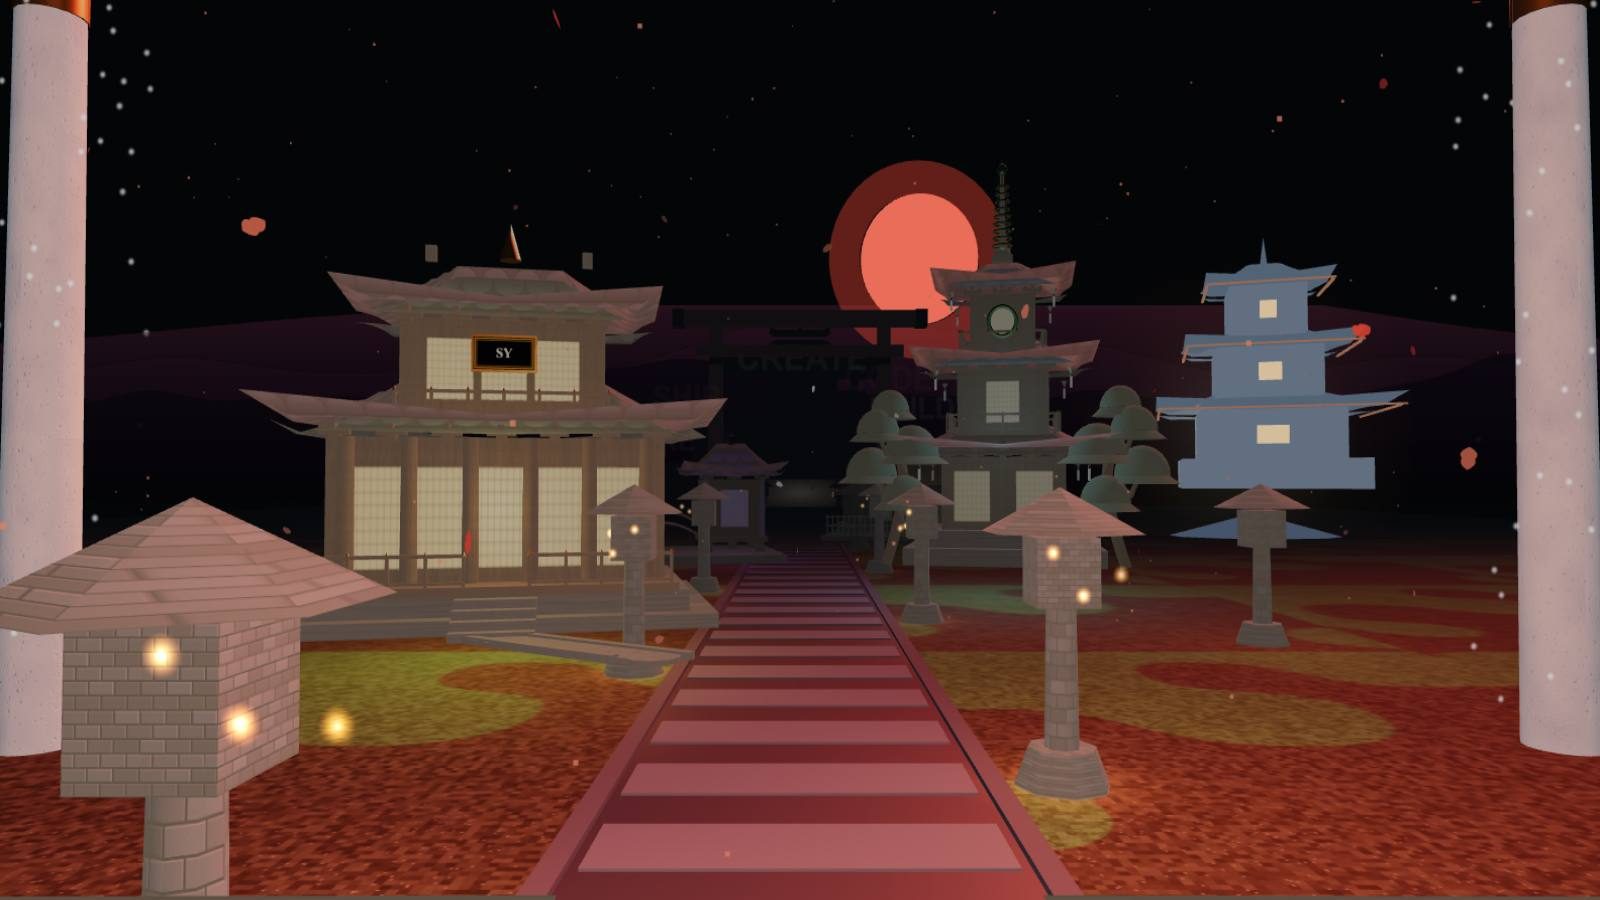
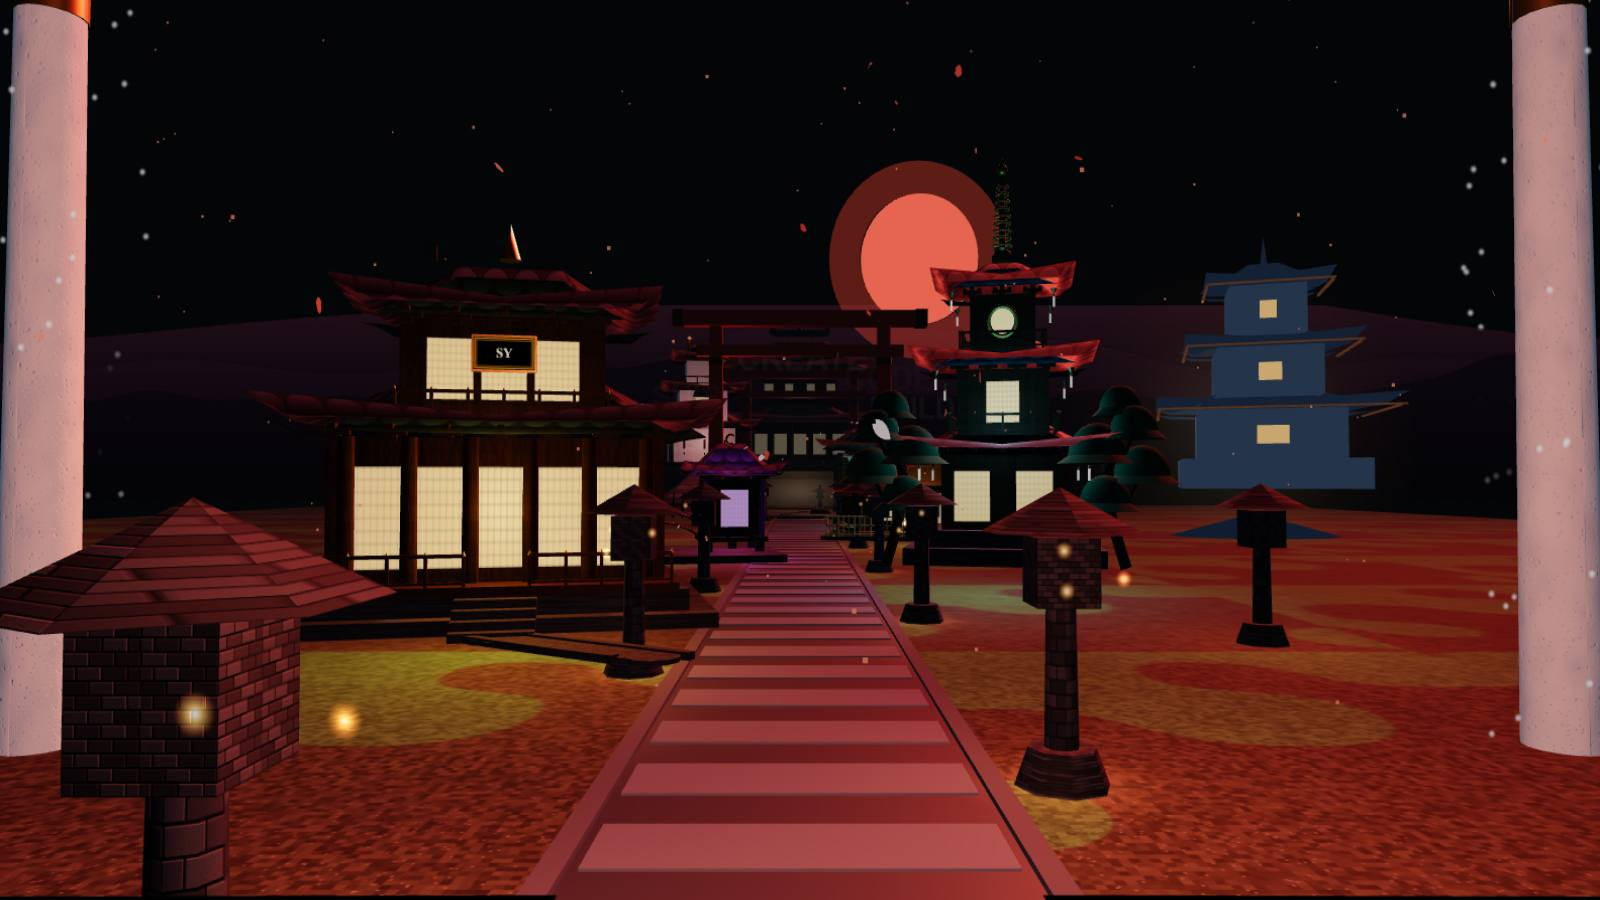
design: fix washed-out houses - restore real textures, light them properly
The "white cloth" came from an emissive floor applied to every house mesh plus
brightened base colours: it erased the procedural wood/roof/stone maps and
flattened all shading. Removed it.

- restored original dark textured materials (wood 0x241a16, tile 0x222b32,
  stone 0x2b3037, hinoki 0x7d5537) so grain and detail read again
- far buildings pushed back to dark but not pure black, so their silhouettes
  have form without washing into the scene
- shoji emissive back to 0.85, lantern intensity x1.25, ambient 0x1a202b @1.95,
  exposure 1.2 - the houses are lit by actual warm point pools instead
- light pool widened 14 -> 20 of 26 sources so lanterns along the whole avenue
  are live (count is still constant, no shader relinks)
- fog stays low (0.007) and all six houses stay visible (cull range 130) so the
  full temple avenue reads at the entrance
- work-stage copy keeps its scrim so the text remains legible
- entrance poster regenerated

Verified: 15/15 interaction checks, mobile guide + swipe, 0 console errors,
0 CJK. Pushed to SUBADEEPAN-Y only.

diff --git a/index.html b/index.html
@@ -3789,7 +3789,7 @@ body.blood-moon-active #filmGrain {
   renderer.setSize(window.innerWidth, window.innerHeight);
   renderer.setPixelRatio(Math.min(window.devicePixelRatio || 1, window.innerWidth < 900 ? 1.1 : 1.25));
   renderer.toneMapping = THREE.ACESFilmicToneMapping;
-  renderer.toneMappingExposure = 1.3;
+  renderer.toneMappingExposure = 1.2;
   window.renderer = renderer;
   window.__glRenderer = renderer;
 
@@ -3829,13 +3829,13 @@ body.blood-moon-active #filmGrain {
 
   const scene = new THREE.Scene();
   scene.background = new THREE.Color(0x040507);
-  scene.fog = new THREE.FogExp2(0x06080c, 0.022);
+  scene.fog = new THREE.FogExp2(0x06080c, 0.007);
   window.scene = scene;
 
   const camera = new THREE.PerspectiveCamera(46, window.innerWidth / window.innerHeight, 0.1, 280);
 
   // --- 3. ATMOSPHERIC LIGHTING WITH DYNAMIC CHROMATIC HARMONY ---
-  const ambientLight = new THREE.AmbientLight(0x2b3038, 2.4);
+  const ambientLight = new THREE.AmbientLight(0x1a202b, 1.95);
   scene.add(ambientLight);
   scene.add(camera);
 
@@ -4032,16 +4032,16 @@ body.blood-moon-active #filmGrain {
 
   // Stage-Specific Atmospheric Fog Density Curve (Mountain Temple Depth Dynamics)
   const STAGE_FOG_DENSITIES = [
-    0.022, // Stage 0 (The Hidden Gate): distant Sanmon palace softly veiled in mountain fog
-    0.020, // Stage 1 (The Maker): gently thinning atmospheric mist
-    0.016, // Stage 2 (iGradeify): cleared mist for razor-sharp artifact details
-    0.016, // Stage 3 (manim-ts): cleared mist for razor-sharp artifact details
-    0.016, // Stage 4 (Duel Deck): cleared mist for razor-sharp artifact details
-    0.016, // Stage 5 (Desktop Buddy): cleared mist for razor-sharp artifact details
-    0.016, // Stage 6 (Greate Engine): cleared mist for razor-sharp artifact details
-    0.016, // Stage 7 (Personal Cloud): cleared mist for razor-sharp artifact details
-    0.024, // Stage 8 (The Ritual): deeper temple precinct fog
-    0.011  // Stage 9 (Inner Sanctum): clear interior air
+    0.007, // Stage 0 (The Hidden Gate): distant Sanmon palace softly veiled in mountain fog
+    0.007, // Stage 1 (The Maker): gently thinning atmospheric mist
+    0.006, // Stage 2 (iGradeify): cleared mist for razor-sharp artifact details
+    0.006, // Stage 3 (manim-ts): cleared mist for razor-sharp artifact details
+    0.006, // Stage 4 (Duel Deck): cleared mist for razor-sharp artifact details
+    0.006, // Stage 5 (Desktop Buddy): cleared mist for razor-sharp artifact details
+    0.006, // Stage 6 (Greate Engine): cleared mist for razor-sharp artifact details
+    0.006, // Stage 7 (Personal Cloud): cleared mist for razor-sharp artifact details
+    0.008, // Stage 8 (The Ritual): deeper temple precinct fog
+    0.005  // Stage 9 (Inner Sanctum): clear interior air
   ];
   window.STAGE_FOG_DENSITIES = STAGE_FOG_DENSITIES;
 
@@ -4315,7 +4315,7 @@ body.blood-moon-active #filmGrain {
   const paperMat = new THREE.MeshStandardMaterial({
     color: 0xffaa48,
     emissive: 0xffaa48,
-    emissiveIntensity: 1.5,
+    emissiveIntensity: 0.85,
     roughness: 0.9,
     metalness: 0.0
   });
@@ -5445,10 +5445,10 @@ body.blood-moon-active #filmGrain {
   // Distant hillside pagoda silhouette filling the right-hand horizon at the hero
   function createDistantPagoda() {
     const g = new THREE.Group();
-    const bodyMat = new THREE.MeshBasicMaterial({ color: 0x3b4657, fog: false });
-    const roofMat = new THREE.MeshBasicMaterial({ color: 0x323d4d, fog: false });
-    const eaveMat = new THREE.MeshBasicMaterial({ color: 0x6b4030, fog: false });
-    const glowMat = new THREE.MeshBasicMaterial({ color: 0xffb066, fog: false });
+    const bodyMat = new THREE.MeshBasicMaterial({ color: 0x1b2533, fog: false });
+    const roofMat = new THREE.MeshBasicMaterial({ color: 0x121a26, fog: false });
+    const eaveMat = new THREE.MeshBasicMaterial({ color: 0x3a2216, fog: false });
+    const glowMat = new THREE.MeshBasicMaterial({ color: 0xe08a42, fog: false });
 
     const plinth = new THREE.Mesh(new THREE.BoxGeometry(5.6, 0.9, 5.6), bodyMat);
     plinth.position.y = 0.45;
@@ -5492,7 +5492,7 @@ body.blood-moon-active #filmGrain {
   // Dark hillside mound so the distant pagoda is seated on the ridge line
   const pagodaHill = new THREE.Mesh(
     new THREE.ConeGeometry(15, 7.5, 10),
-    new THREE.MeshBasicMaterial({ color: 0x2a3444, fog: false })
+    new THREE.MeshBasicMaterial({ color: 0x101824, fog: false })
   );
   pagodaHill.position.set(36, -1.4, -62);
   pagodaHill.scale.set(1.6, 0.8, 1);
@@ -6606,12 +6606,12 @@ body.blood-moon-active #filmGrain {
 
     house.traverse(obj => {
       if (obj.isPointLight) {
-        obj.userData.baseIntensity = obj.intensity * 1.5;
+        obj.userData.baseIntensity = obj.intensity * 1.25;
         lanternLights.push(obj);
       }
       if (obj.isMesh && obj.userData && obj.userData.isShoji) {
         if (obj.material && typeof obj.material.emissiveIntensity !== 'undefined') {
-          obj.userData.baseEmissive = obj.userData.baseEmissive || obj.material.emissiveIntensity || 1.5;
+          obj.userData.baseEmissive = obj.userData.baseEmissive || obj.material.emissiveIntensity || 0.85;
           shojiMeshes.push(obj);
         }
       }
@@ -6619,17 +6619,6 @@ body.blood-moon-active #filmGrain {
 
     house.userData.shojiMeshes = shojiMeshes;
     house.userData.lanternLights = lanternLights;
-  });
-  // Every house mesh gets a low emissive floor so its own detail stays legible
-  // even where the pooled point lights cannot reach.
-  PROJECT_HOUSES.forEach(function (h) {
-    h.traverse(function (o) {
-      if (!o.isMesh || !o.material || !o.material.isMeshStandardMaterial) return;
-      if (o.material.emissive && o.material.emissive.getHex() === 0) {
-        o.material.emissive.setHex(0x3a3026);
-        o.material.emissiveIntensity = Math.max(o.material.emissiveIntensity || 0, 0.14);
-      }
-    });
   });
   window.PROJECT_HOUSES = PROJECT_HOUSES;
   window.HOUSES_GROUP = HOUSES_GROUP;
@@ -8592,7 +8581,7 @@ body.blood-moon-active #filmGrain {
     }
 
     // Dynamic Atmospheric Fog Density Modulation (Mountain Temple Depth Dynamics)
-    const targetFogDensity = typeof STAGE_FOG_DENSITIES !== 'undefined' && STAGE_FOG_DENSITIES[primaryStage] !== undefined ? STAGE_FOG_DENSITIES[primaryStage] : 0.022;
+    const targetFogDensity = typeof STAGE_FOG_DENSITIES !== 'undefined' && STAGE_FOG_DENSITIES[primaryStage] !== undefined ? STAGE_FOG_DENSITIES[primaryStage] : 0.007;
     if (scene && scene.fog) {
       scene.fog.density += (targetFogDensity - scene.fog.density) * 0.05;
     }
@@ -8699,10 +8688,10 @@ body.blood-moon-active #filmGrain {
       visibleHouses = [];
       for (let i = 0; i < PROJECT_HOUSES.length; i++) {
         const h = PROJECT_HOUSES[i];
-        h.visible = Math.abs(h.position.z - camZ) < 66;
+        h.visible = Math.abs(h.position.z - camZ) < 130;
         if (h.visible) visibleHouses.push(h);
       }
-      if (SANCTUM.group) SANCTUM.group.visible = camZ < -66;
+      if (SANCTUM.group) SANCTUM.group.visible = camZ < -96;
       const shellHidden = camZ < -108;
       if (window.__shellHidden !== shellHidden) {
         window.__shellHidden = shellHidden;
@@ -9454,7 +9443,7 @@ body.blood-moon-active #filmGrain {
   // the rest are demoted to plain data holders and a small pool of real lights
   // follows the camera. The light COUNT never changes, so no shader ever has
   // to be relinked mid-journey.
-  const LIGHT_POOL_SIZE = 14;
+  const LIGHT_POOL_SIZE = 20;
   const lightPool = [];
   const lightSources = [];
   LIGHT_KEEPER.children.slice().forEach(function (l) {

diff --git a/build_kage_editorial.js b/build_kage_editorial.js
@@ -3637,7 +3637,7 @@ ${modalHtml}
   renderer.setSize(window.innerWidth, window.innerHeight);
   renderer.setPixelRatio(Math.min(window.devicePixelRatio || 1, window.innerWidth < 900 ? 1.1 : 1.25));
   renderer.toneMapping = THREE.ACESFilmicToneMapping;
-  renderer.toneMappingExposure = 1.3;
+  renderer.toneMappingExposure = 1.2;
   window.renderer = renderer;
   window.__glRenderer = renderer;
 
@@ -3677,13 +3677,13 @@ ${modalHtml}
 
   const scene = new THREE.Scene();
   scene.background = new THREE.Color(0x040507);
-  scene.fog = new THREE.FogExp2(0x06080c, 0.022);
+  scene.fog = new THREE.FogExp2(0x06080c, 0.007);
   window.scene = scene;
 
   const camera = new THREE.PerspectiveCamera(46, window.innerWidth / window.innerHeight, 0.1, 280);
 
   // --- 3. ATMOSPHERIC LIGHTING WITH DYNAMIC CHROMATIC HARMONY ---
-  const ambientLight = new THREE.AmbientLight(0x2b3038, 2.4);
+  const ambientLight = new THREE.AmbientLight(0x1a202b, 1.95);
   scene.add(ambientLight);
   scene.add(camera);
 
@@ -3880,16 +3880,16 @@ ${modalHtml}
 
   // Stage-Specific Atmospheric Fog Density Curve (Mountain Temple Depth Dynamics)
   const STAGE_FOG_DENSITIES = [
-    0.022, // Stage 0 (The Hidden Gate): distant Sanmon palace softly veiled in mountain fog
-    0.020, // Stage 1 (The Maker): gently thinning atmospheric mist
-    0.016, // Stage 2 (iGradeify): cleared mist for razor-sharp artifact details
-    0.016, // Stage 3 (manim-ts): cleared mist for razor-sharp artifact details
-    0.016, // Stage 4 (Duel Deck): cleared mist for razor-sharp artifact details
-    0.016, // Stage 5 (Desktop Buddy): cleared mist for razor-sharp artifact details
-    0.016, // Stage 6 (Greate Engine): cleared mist for razor-sharp artifact details
-    0.016, // Stage 7 (Personal Cloud): cleared mist for razor-sharp artifact details
-    0.024, // Stage 8 (The Ritual): deeper temple precinct fog
-    0.011  // Stage 9 (Inner Sanctum): clear interior air
+    0.007, // Stage 0 (The Hidden Gate): distant Sanmon palace softly veiled in mountain fog
+    0.007, // Stage 1 (The Maker): gently thinning atmospheric mist
+    0.006, // Stage 2 (iGradeify): cleared mist for razor-sharp artifact details
+    0.006, // Stage 3 (manim-ts): cleared mist for razor-sharp artifact details
+    0.006, // Stage 4 (Duel Deck): cleared mist for razor-sharp artifact details
+    0.006, // Stage 5 (Desktop Buddy): cleared mist for razor-sharp artifact details
+    0.006, // Stage 6 (Greate Engine): cleared mist for razor-sharp artifact details
+    0.006, // Stage 7 (Personal Cloud): cleared mist for razor-sharp artifact details
+    0.008, // Stage 8 (The Ritual): deeper temple precinct fog
+    0.005  // Stage 9 (Inner Sanctum): clear interior air
   ];
   window.STAGE_FOG_DENSITIES = STAGE_FOG_DENSITIES;
 
@@ -4163,7 +4163,7 @@ ${modalHtml}
   const paperMat = new THREE.MeshStandardMaterial({
     color: 0xffaa48,
     emissive: 0xffaa48,
-    emissiveIntensity: 1.5,
+    emissiveIntensity: 0.85,
     roughness: 0.9,
     metalness: 0.0
   });
@@ -5293,10 +5293,10 @@ ${modalHtml}
   // Distant hillside pagoda silhouette filling the right-hand horizon at the hero
   function createDistantPagoda() {
     const g = new THREE.Group();
-    const bodyMat = new THREE.MeshBasicMaterial({ color: 0x3b4657, fog: false });
-    const roofMat = new THREE.MeshBasicMaterial({ color: 0x323d4d, fog: false });
-    const eaveMat = new THREE.MeshBasicMaterial({ color: 0x6b4030, fog: false });
-    const glowMat = new THREE.MeshBasicMaterial({ color: 0xffb066, fog: false });
+    const bodyMat = new THREE.MeshBasicMaterial({ color: 0x1b2533, fog: false });
+    const roofMat = new THREE.MeshBasicMaterial({ color: 0x121a26, fog: false });
+    const eaveMat = new THREE.MeshBasicMaterial({ color: 0x3a2216, fog: false });
+    const glowMat = new THREE.MeshBasicMaterial({ color: 0xe08a42, fog: false });
 
     const plinth = new THREE.Mesh(new THREE.BoxGeometry(5.6, 0.9, 5.6), bodyMat);
     plinth.position.y = 0.45;
@@ -5340,7 +5340,7 @@ ${modalHtml}
   // Dark hillside mound so the distant pagoda is seated on the ridge line
   const pagodaHill = new THREE.Mesh(
     new THREE.ConeGeometry(15, 7.5, 10),
-    new THREE.MeshBasicMaterial({ color: 0x2a3444, fog: false })
+    new THREE.MeshBasicMaterial({ color: 0x101824, fog: false })
   );
   pagodaHill.position.set(36, -1.4, -62);
   pagodaHill.scale.set(1.6, 0.8, 1);
@@ -6454,12 +6454,12 @@ ${modalHtml}
 
     house.traverse(obj => {
       if (obj.isPointLight) {
-        obj.userData.baseIntensity = obj.intensity * 1.5;
+        obj.userData.baseIntensity = obj.intensity * 1.25;
         lanternLights.push(obj);
       }
       if (obj.isMesh && obj.userData && obj.userData.isShoji) {
         if (obj.material && typeof obj.material.emissiveIntensity !== 'undefined') {
-          obj.userData.baseEmissive = obj.userData.baseEmissive || obj.material.emissiveIntensity || 1.5;
+          obj.userData.baseEmissive = obj.userData.baseEmissive || obj.material.emissiveIntensity || 0.85;
           shojiMeshes.push(obj);
         }
       }
@@ -6467,17 +6467,6 @@ ${modalHtml}
 
     house.userData.shojiMeshes = shojiMeshes;
     house.userData.lanternLights = lanternLights;
-  });
-  // Every house mesh gets a low emissive floor so its own detail stays legible
-  // even where the pooled point lights cannot reach.
-  PROJECT_HOUSES.forEach(function (h) {
-    h.traverse(function (o) {
-      if (!o.isMesh || !o.material || !o.material.isMeshStandardMaterial) return;
-      if (o.material.emissive && o.material.emissive.getHex() === 0) {
-        o.material.emissive.setHex(0x3a3026);
-        o.material.emissiveIntensity = Math.max(o.material.emissiveIntensity || 0, 0.14);
-      }
-    });
   });
   window.PROJECT_HOUSES = PROJECT_HOUSES;
   window.HOUSES_GROUP = HOUSES_GROUP;
@@ -8440,7 +8429,7 @@ ${modalHtml}
     }
 
     // Dynamic Atmospheric Fog Density Modulation (Mountain Temple Depth Dynamics)
-    const targetFogDensity = typeof STAGE_FOG_DENSITIES !== 'undefined' && STAGE_FOG_DENSITIES[primaryStage] !== undefined ? STAGE_FOG_DENSITIES[primaryStage] : 0.022;
+    const targetFogDensity = typeof STAGE_FOG_DENSITIES !== 'undefined' && STAGE_FOG_DENSITIES[primaryStage] !== undefined ? STAGE_FOG_DENSITIES[primaryStage] : 0.007;
     if (scene && scene.fog) {
       scene.fog.density += (targetFogDensity - scene.fog.density) * 0.05;
     }
@@ -8547,10 +8536,10 @@ ${modalHtml}
       visibleHouses = [];
       for (let i = 0; i < PROJECT_HOUSES.length; i++) {
         const h = PROJECT_HOUSES[i];
-        h.visible = Math.abs(h.position.z - camZ) < 66;
+        h.visible = Math.abs(h.position.z - camZ) < 130;
         if (h.visible) visibleHouses.push(h);
       }
-      if (SANCTUM.group) SANCTUM.group.visible = camZ < -66;
+      if (SANCTUM.group) SANCTUM.group.visible = camZ < -96;
       const shellHidden = camZ < -108;
       if (window.__shellHidden !== shellHidden) {
         window.__shellHidden = shellHidden;
@@ -9302,7 +9291,7 @@ ${modalHtml}
   // the rest are demoted to plain data holders and a small pool of real lights
   // follows the camera. The light COUNT never changes, so no shader ever has
   // to be relinked mid-journey.
-  const LIGHT_POOL_SIZE = 14;
+  const LIGHT_POOL_SIZE = 20;
   const lightPool = [];
   const lightSources = [];
   LIGHT_KEEPER.children.slice().forEach(function (l) {
